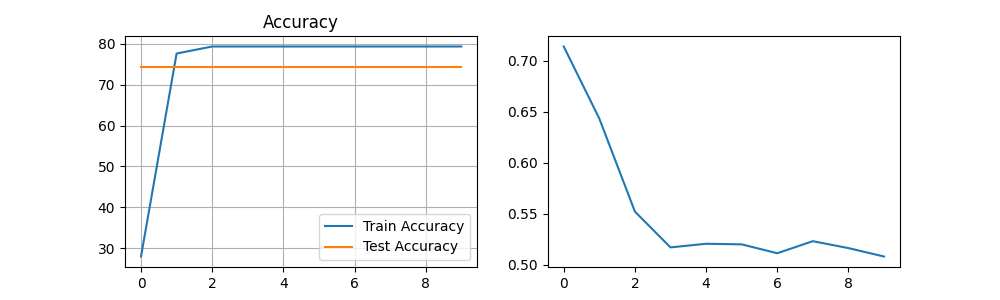
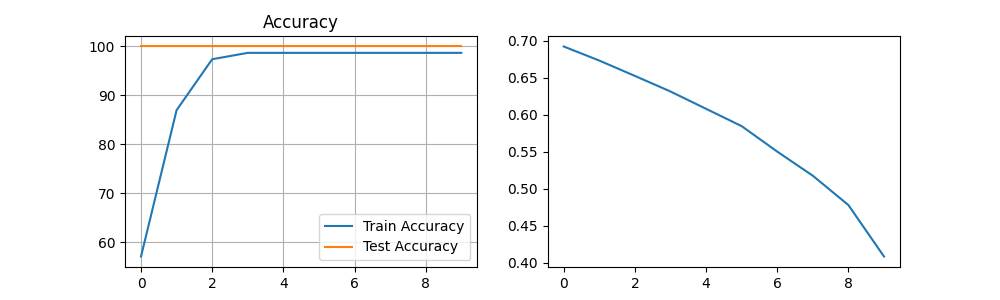
modified:   app.py 	modified:   static/HTML/images/LSTM_test_acc.png 	modified:   static/HTML/images/LSTM_train_acc.png

diff --git a/app.py b/app.py
@@ -31,8 +31,7 @@ mydb = mysql.connector.connect(
   database="dbmain_dissertation"
 )
 engine = create_engine('mysql+mysqlconnector://root@localhost/dbmain_dissertation', echo=False)
-    
-  
+
 @app.route("/uploadCSV", methods=["GET", "POST"])
 def uploadCSV():
     filepath = request.files["csvfile"]
@@ -74,20 +73,19 @@ def modelcomplete():
 @app.route("/generaterecomendation", methods=["GET", "POST"])
 def modelrecommendation():
 
-    brands = "Samsung"
-    type = "Cellphone"
-    model = "Galaxy S24+"
-    # brands = session["brands"]
-    # type = session["type"]
-    # model = str(request.form["gadgetModel"])
+    # brands = "Samsung"
+    # type = "Cellphone"
+    # model = "Galaxy S24+"
+    brands = session["brands"]
+    type = session["type"]
+    model = str(request.form["gadgetModel"])
     item_desc = brands +  " " + model
     
     temp_df = pd.read_sql("SELECT * FROM gadget_reviews where Brand='" +brands+"' and Type='"+type+"' and Model='"+model+"'", mydb)
     temp_df = sub_datacleaning(temp_df)
 
     attrib_table(temp_df)
-    
-    
+
     summary_reco, featured_reco, detailed_reco = sub_recommendation_summary(model)
 
     airesult = sub_AIresult(item_desc)
@@ -98,7 +96,7 @@ def modelrecommendation():
 def sub_recommendation_summary(model):
     mydb.close()
     mydb._open_connection()
-    model = "Galaxy S24+"
+    # model = "Galaxy S24+"
     temp_df_count = pd.read_sql("SELECT count(model) as count FROM gadget_reviews where Model='"+model+"'", mydb)
     temp_df_reco = pd.read_sql("SELECT * FROM attribute_table where Model='"+model+"'", mydb)
     
@@ -163,15 +161,15 @@ def sub_datacleaning(temp_df):
             temp_df = temp_df.dropna(subset=['Reviews'], axis=0,how='any',inplace=False)
         temp_df["Reviews"] = temp_df["Reviews"].str.replace("\n",' ')
         temp_df["Reviews"] = temp_df["Reviews"].str.replace("\r",' ')
-        temp_df = temp_df.replace(r'http\S+', '', regex=True)
-        temp_df = temp_df.replace(r"x000D", '', regex=True)
-        temp_df = temp_df.replace(r'<[^>]+>', '', regex= True)
+        temp_df["Reviews"] = temp_df["Reviews"].replace(r'http\S+', '', regex=True)
+        temp_df["Reviews"] = temp_df["Reviews"].replace(r"x000D", '', regex=True)
+        temp_df["Reviews"] = temp_df["Reviews"].replace(r'<[^>]+>', '', regex= True)
         
-        temp_df = temp_df.replace('[^a-zA-Z0-9]', ' ', regex=True)
-        temp_df = temp_df.replace(r"\s+[a-zA-Z]\s+", ' ', regex=True)
-        temp_df = temp_df.replace(r" +", ' ', regex=True)
-        temp_df = temp_df.replace(r'\b(' + r'|'.join(stopwords.words('english')) + r')\b\s*','', regex=True)
-        temp_df = temp_df.replace(r'\b(' + r'|'.join(custom_stopwords) + r')\b\s*','', regex=True)
+        temp_df["Reviews"] = temp_df["Reviews"].replace('[^a-zA-Z0-9]', ' ', regex=True)
+        temp_df["Reviews"] = temp_df["Reviews"].replace(r"\s+[a-zA-Z]\s+", ' ', regex=True)
+        temp_df["Reviews"] = temp_df["Reviews"].replace(r" +", ' ', regex=True)
+        temp_df["Reviews"] = temp_df["Reviews"].replace(r'\b(' + r'|'.join(stopwords.words('english')) + r')\b\s*','', regex=True)
+        temp_df["Reviews"] = temp_df["Reviews"].replace(r'\b(' + r'|'.join(custom_stopwords) + r')\b\s*','', regex=True)
 
         def lemmatize_review(review_text):
             words = nltk.word_tokenize(review_text)
